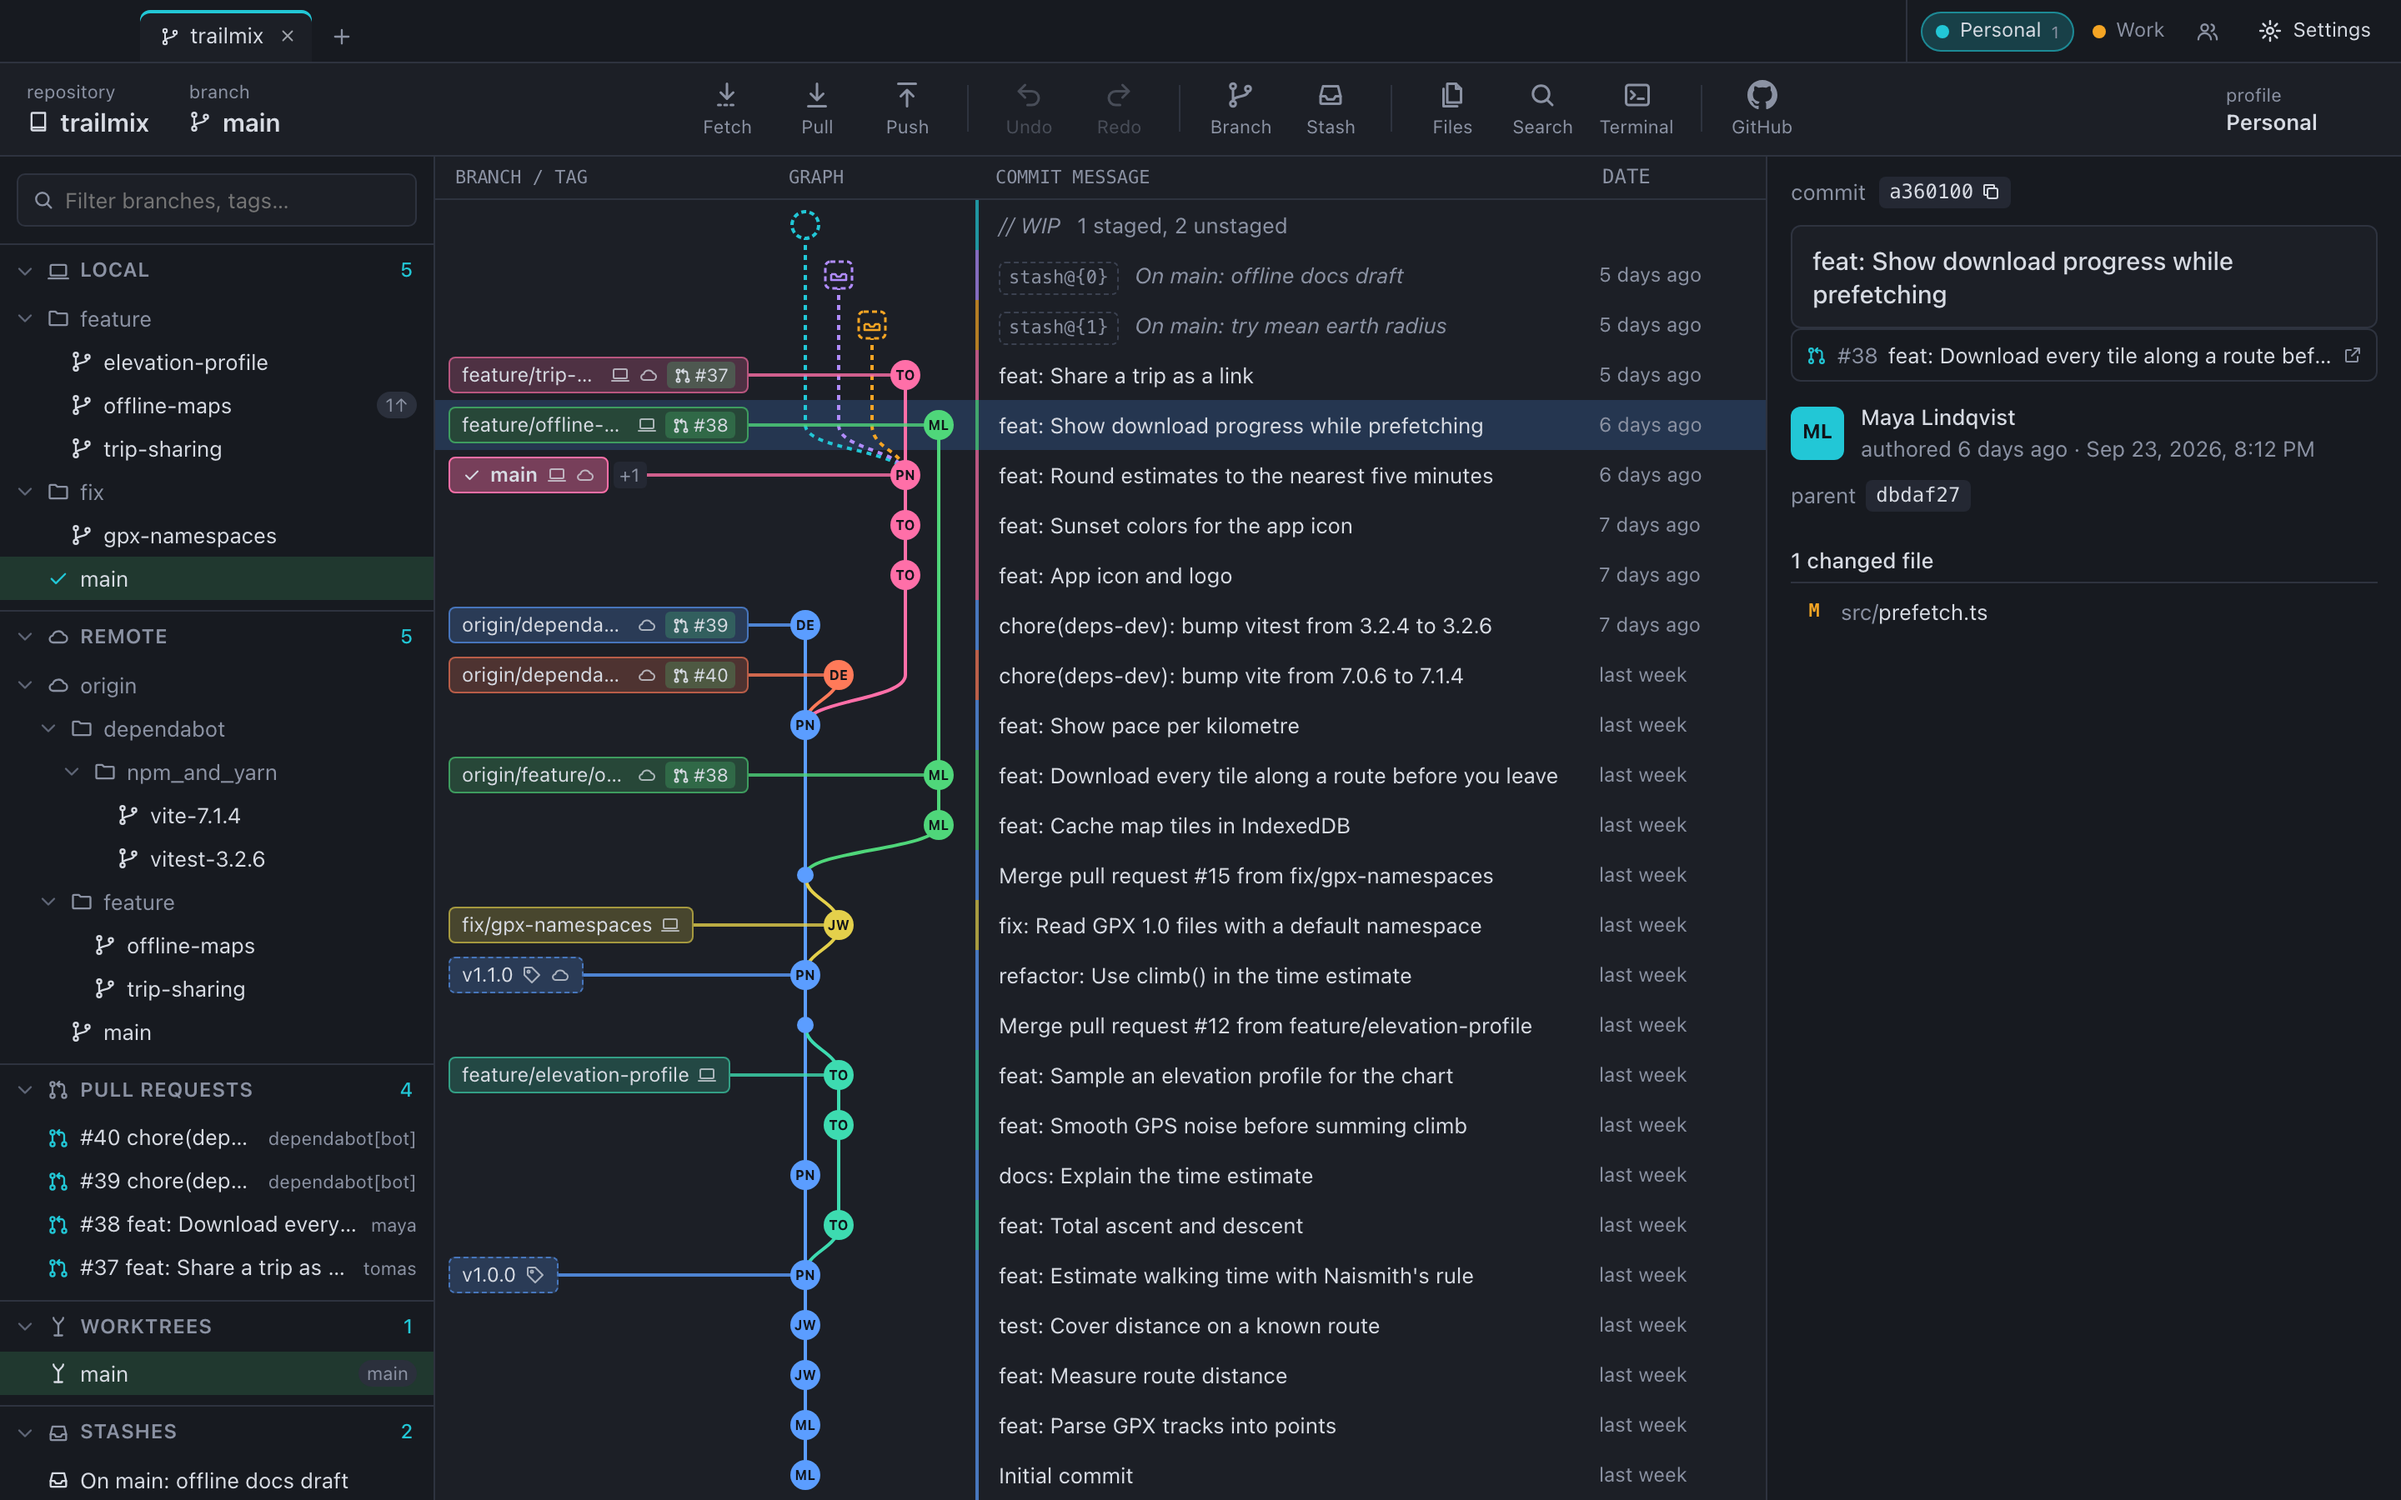
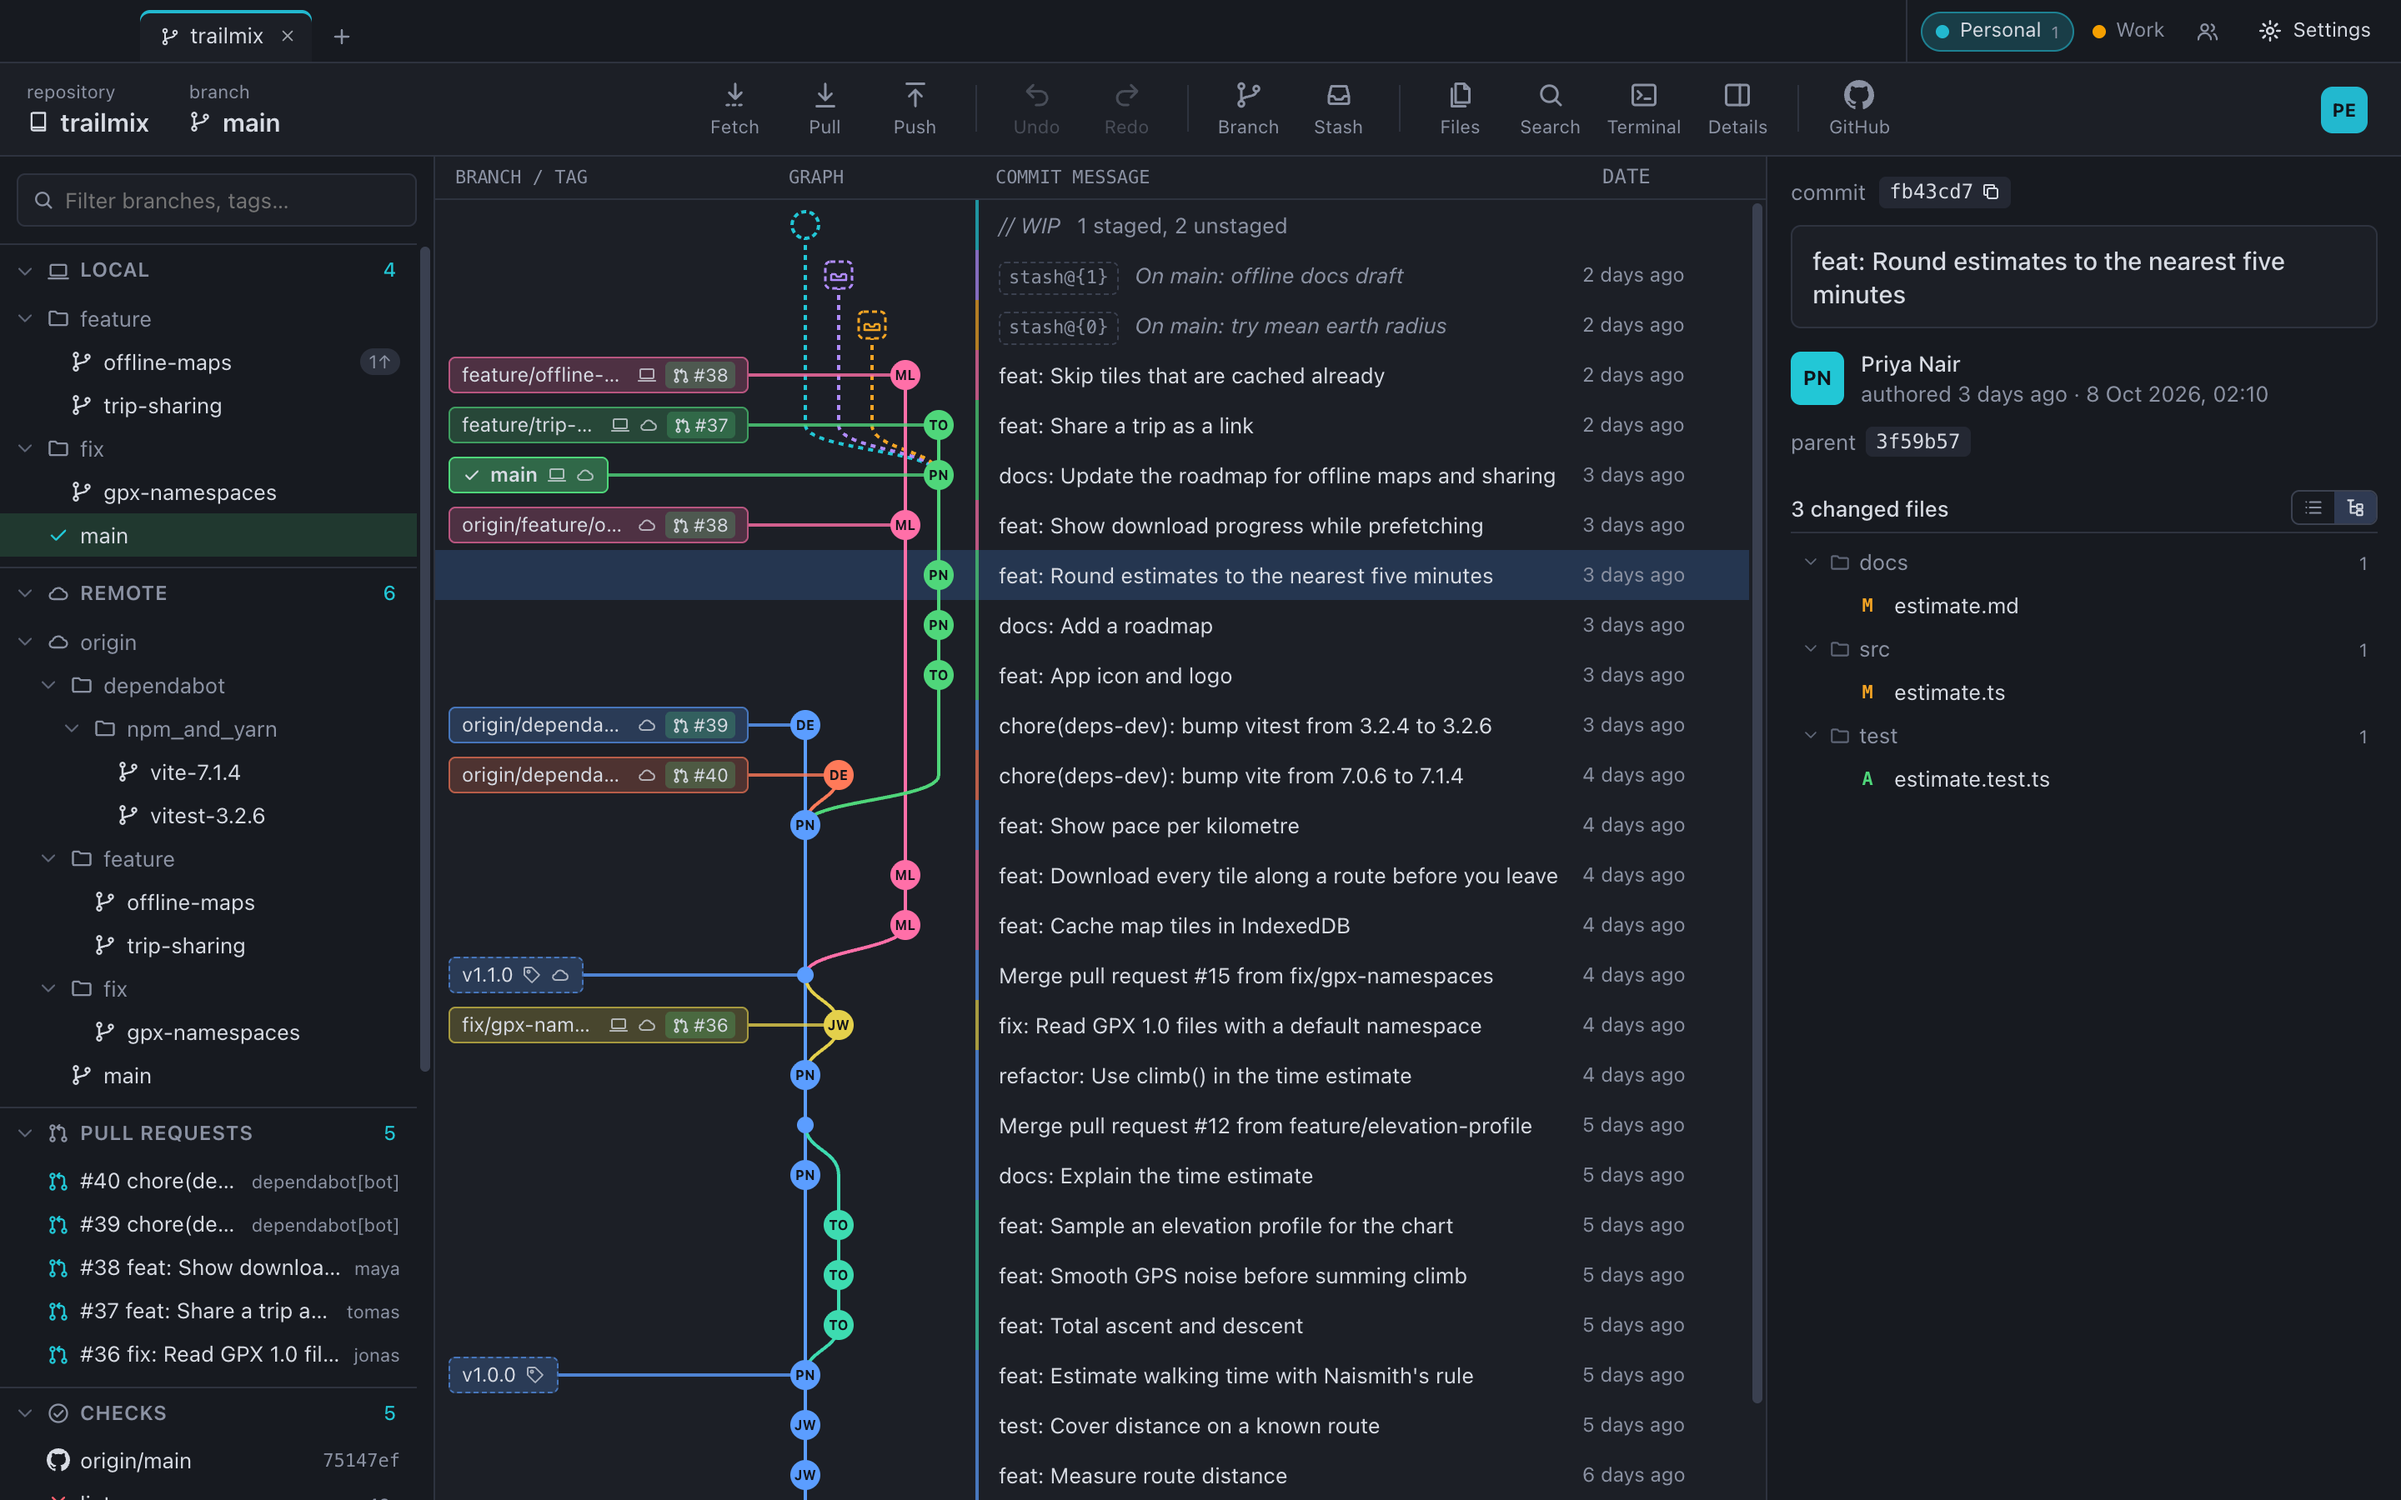
Update screenshots and features for 3.0
New screenshots of a fresh demo repository, adding Preview with the
changes marked (Markdown and code) and merging a pull request. The
feature list gains comparing commits, Preview, the change map, find,
the file tree, more hosting providers, approving and merging pull
requests, and CI checks. Linux packages are x86-64 only.

diff --git a/README.md b/README.md
@@ -12,7 +12,7 @@
 A fast desktop Git client for macOS, Windows and Linux. It runs your own `git`, so your config,
 hooks, credential helpers, signing and worktrees behave exactly as they do in the terminal.
 
-![The commit graph with branches, pull requests and a commit's details](screenshots/graph.png)
+![The commit graph with branches, pull requests and a commit's changed files as a tree](screenshots/graph.png)
 
 ## Install
 
@@ -27,7 +27,8 @@ brew install --cask artti-jaakkola/tap/git-client
 ### By hand
 
 Get the latest version from
-[Releases](https://github.com/artti-jaakkola/git-client-releases/releases/latest).
+[Releases](https://github.com/artti-jaakkola/git-client-releases/releases/latest), where each
+version lists what's new.
 
 **macOS:** open the `.dmg` and drag Git Client to Applications. The app is not signed with an Apple
 Developer ID, so macOS blocks the first launch: open System Settings → Privacy & Security and choose
@@ -36,8 +37,9 @@ Developer ID, so macOS blocks the first launch: open System Settings → Privacy
 **Windows:** run the `-setup.exe` (or the `.msi`). The installer is not code-signed, so SmartScreen
 may warn: choose **More info → Run anyway**.
 
-**Linux:** install the `.deb` (Debian, Ubuntu) or `.rpm` (Fedora, openSUSE), or run the `.AppImage`.
-Each comes for x86-64 (`amd64`/`x86_64`) and ARM64 (`arm64`/`aarch64`).
+**Linux (x86-64):** install the `.deb` (Debian, Ubuntu) or `.rpm` (Fedora, openSUSE), or make the
+`.AppImage` executable and run it. Saved tokens are kept in the Secret Service (GNOME Keyring or
+KWallet).
 
 Git must be installed; the app uses your own git.
 
@@ -46,30 +48,41 @@ Git must be installed; the app uses your own git.
 **History**
 - Commit graph of all branches, remote branches, tags and stashes, with colored lanes
 - Switch branches and tags with a click; drag one branch onto another to merge or rebase
+- Compare two commits like a pull request: the commits and files one would bring into the other,
+  and whether merging would fast-forward, merge cleanly or conflict
 - Search commits by message, author, id or changed file names, and search file contents
 - Browse the files of any commit, with each file's history
+- A commit's changed files as a list or as a tree of their folders
 
 **Changes**
 - Unified and split diffs that highlight the exact change within an edited line
+- Preview a change as the file reads: rendered Markdown and text with the changed words marked in
+  place, and code with its changed lines marked, keeping its syntax colors
+- Where the changes are, marked in the scrollbar; ⌥↑ and ⌥↓ jump between them
+- Find text in file previews (⌘F)
 - Stage and unstage whole files, hunks or single lines
-- Hide whitespace-only changes
+- Hide whitespace-only changes, or show the whole file around them
 - Edit working-tree files right in the app
 - Commit, amend, and reword earlier commits on the current branch
 - Squash consecutive commits: select them with ⌘-click or ⇧-click
 - Apply patch files, as working-tree changes or as the commits of a `git format-patch` file
 
 **Branches and merging**
-- Create, rename and delete branches; merge, rebase, cherry-pick, revert and reset
+- Create, rename and delete branches, here or on their remote; merge, rebase, cherry-pick, revert
+  and reset
 - Undo and redo (⌘Z, ⇧⌘Z) commits, checkouts, merges, rebases, resets, squashes and more
 - See which remotes have each tag; push a tag, or delete it locally or from a remote
 - Resolve merge conflicts in a merge editor, one conflict at a time
 - Stash, apply, pop, drop and rename stashes
 - Create and open worktrees, each in its own tab
 
-**GitHub and GitLab**
-- Clone any of your repositories or projects from a searchable list, or by URL
+**GitHub, GitLab, Bitbucket, Gitea, Forgejo and Azure DevOps**
+- Clone any of your repositories from a searchable list, or by URL
 - Open pull and merge requests shown next to their branches
-- Pushing a repository without a remote offers to create it on GitHub or GitLab
+- Approve and merge pull requests in the app: rebase, squash or a merge commit, and delete the
+  branch after
+- CI checks of your branch in the sidebar
+- Pushing a repository without a remote offers to create it on your host
 
 **Profiles**
 - Keep work and personal identities apart: author, SSH key, commit signing and HTTPS tokens
@@ -77,14 +90,27 @@ Git must be installed; the app uses your own git.
 - Tokens are stored in the macOS Keychain, Windows Credential Manager or the Linux Secret Service
 
 **And**
+- Fetches in the background without ever prompting for a password or a security key touch
 - A terminal in the repository, one keystroke away (⌃\`)
 - Dark and light themes that follow the system
 
 ## Screenshots
 
+A commit's Markdown change in Preview: the changed words marked in place, here in a table:
+
+![A roadmap document with changed table cells marked in red and green](screenshots/preview.png)
+
+Code in Preview keeps its syntax colors, with the changed lines and characters marked:
+
+![A TypeScript file with its changed lines tinted green](screenshots/code-preview.png)
+
 Split diff of a commit, with the exact change within each line highlighted:
 
 ![A commit's diff, side by side](screenshots/diff.png)
+
+Merging a pull request from the app:
+
+![The merge dialog with rebase chosen and the branch to be deleted after](screenshots/merge.png)
 
 Squashing three commits into one:
 
@@ -94,9 +120,9 @@ A tag that is both here and on origin, which can be deleted from either:
 
 ![A tag's menu with separate local and remote delete](screenshots/tags.png)
 
-Staging changes line by line and writing a commit:
+Staging changes and writing a commit:
 
-![Working-tree changes with a diff and a commit message](screenshots/staging.png)
+![Working-tree changes with a diff and the commit form](screenshots/staging.png)
 
 Profiles for work and personal repositories:
 
